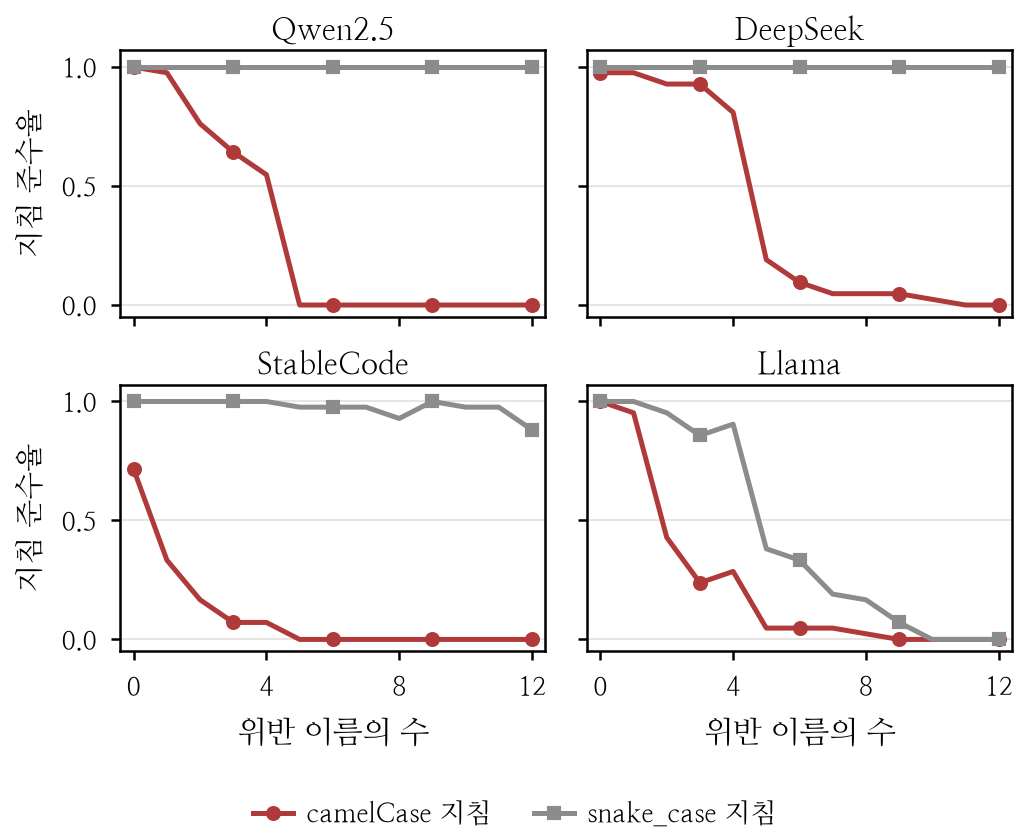
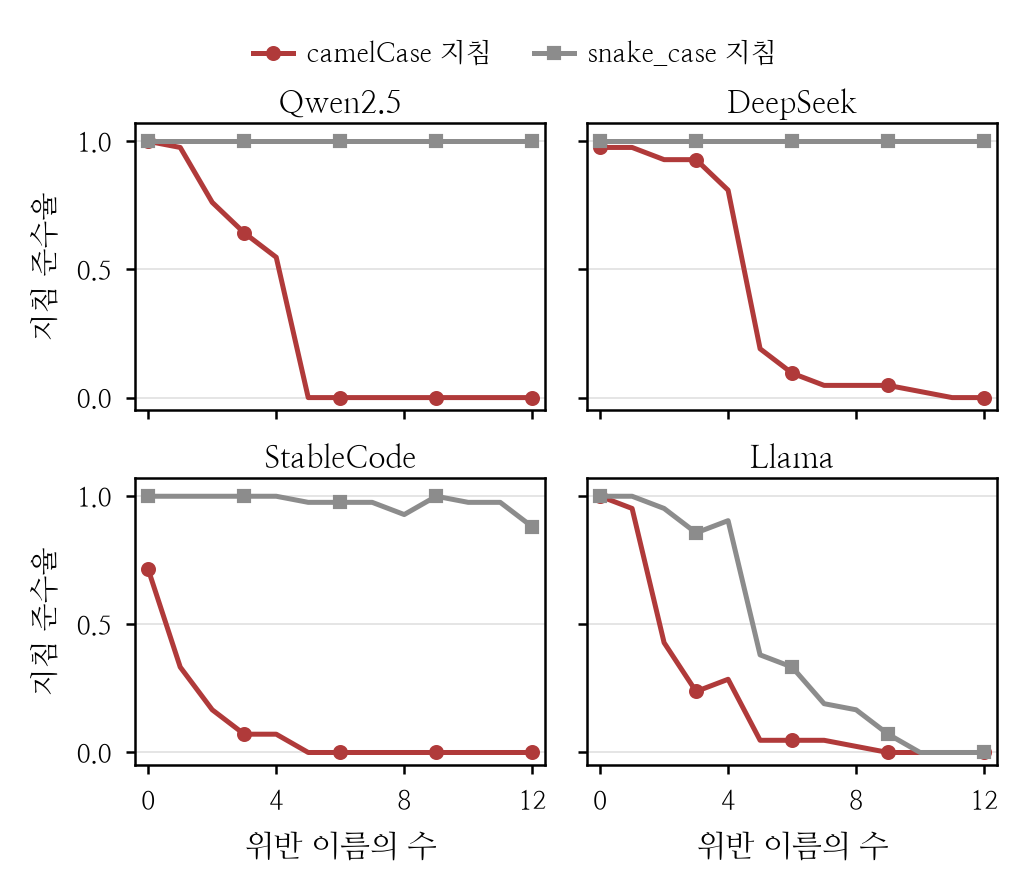
그림 1 범례를 판 위로 · 판 크기를 그림 2와 일치시킨다
상자 크기를 그림 2에 못 박으면 범례를 판 밖으로 뺀 만큼 격자가 눌려 판이 작아진다.
맞춰야 할 것은 상자가 아니라 **판 하나의 크기**다.

figsize와 여백을 fig_attention과 똑같이 두어 판 기하를 일치시키고, 범례는 판 밖
위에 붙여 잘라내기로 함께 담았다. 두 그림은 폭이 같고 그림 1만 범례 줄만큼 높다.

  그림1  246.65 x 214.67 pt   단폭에서 판 폭 1.0431 in
  그림2  247.07 x 200.38 pt   단폭에서 판 폭 1.0413 in

Claude-Session: https://claude.ai/code/session_01YabXMXZ1FHdG4oH1H9fXx5

diff --git a/scripts/paper_figures_ko.py b/scripts/paper_figures_ko.py
@@ -142,11 +142,11 @@ def fig_cliff(out: Path):
         by[(c["model"]["family"], c["instruction"]["target_notation"])][n_viol].append(
             1.0 if r["metrics"]["extra"]["first_compliant"] else 0.0)
 
-    # 상자를 그림 2의 저장 크기(247.1 x 200.4 pt)에 못 박는다. 잘라내기를 끄고(_save의
-    # tight=False) figsize를 그대로 쓰므로 결과 크기가 그림 2와 정확히 같아진다 —
-    # LaTeX가 폭을 단폭에 맞출 때 두 그림의 높이도 같아진다.
-    fig, axes = plt.subplots(2, 2, figsize=(247.1 / 72, 200.4 / 72),
-                             sharex=True, sharey=True)
+    # 판 하나의 크기를 그림 2와 같게 만든다(87.21 x 64.00 pt). figsize·여백을 그림 2의
+    # fig_attention과 똑같이 두면 격자 기하가 일치한다. 범례는 판 밖 위에 붙이고
+    # 잘라내기로 함께 담으므로, 두 그림은 **폭이 같고 그림 1만 범례 줄만큼 높다** —
+    # 단폭에 넣었을 때 판 크기가 어긋나지 않는다.
+    fig, axes = plt.subplots(2, 2, figsize=(3.3, 2.65), sharex=True, sharey=True)
     for ax, m in zip(axes.ravel(), ORDER):
         for tgt, color, mk, lab in (("camel", RED, "o", "camelCase 지침"),
                                     ("snake", GRAY, "s", "snake_case 지침")):
@@ -168,14 +168,13 @@ def fig_cliff(out: Path):
         ax.set_xlabel("위반 이름의 수", fontsize=7.5)
     for ax in axes[:, 0]:
         ax.set_ylabel("지침 준수율", fontsize=7)
-    # 범례는 판 밖 맨 아래. 상자 크기는 위에서 못 박았으므로 범례를 빼도 그림 2와
-    # 어긋나지 않는다 — 격자만 그만큼 눌린다.
-    fig.tight_layout(pad=0.45, h_pad=0.7, w_pad=0.9, rect=(0, 0.085, 1, 1))
+    # 여백은 그림 2와 동일. rect를 건드리지 않아야 판 크기가 그림 2와 같아진다.
+    fig.tight_layout(pad=0.3, h_pad=0.7, w_pad=0.9)
     h, l = axes[0][0].get_legend_handles_labels()
-    fig.legend(h, l, ncol=2, loc="lower center", bbox_to_anchor=(0.5, -0.004),
+    fig.legend(h, l, ncol=2, loc="lower center", bbox_to_anchor=(0.5, 1.0),
                fontsize=6.4, handlelength=1.5, columnspacing=1.6, borderaxespad=0.0,
                frameon=False)
-    _save(fig, out, "ko_cliff", tight=False)
+    _save(fig, out, "ko_cliff")
 
 
 # ── 그림 2. Key와 Value 중 어느 쪽이 표기를 나르나 (step3 + step5) ───────
